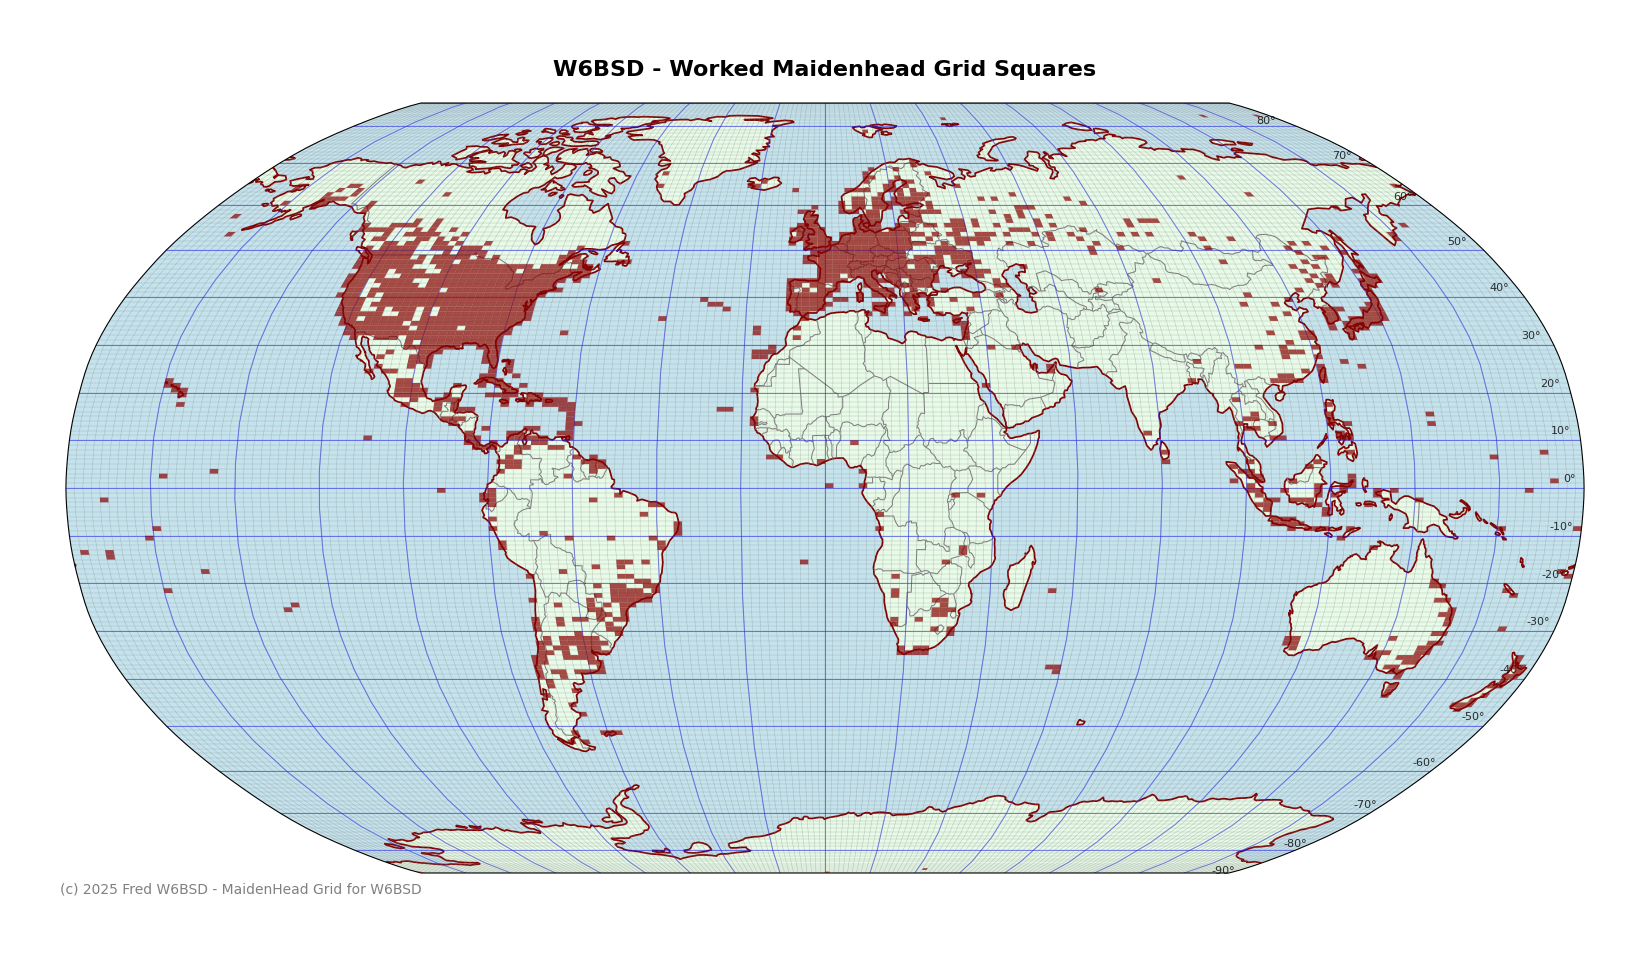
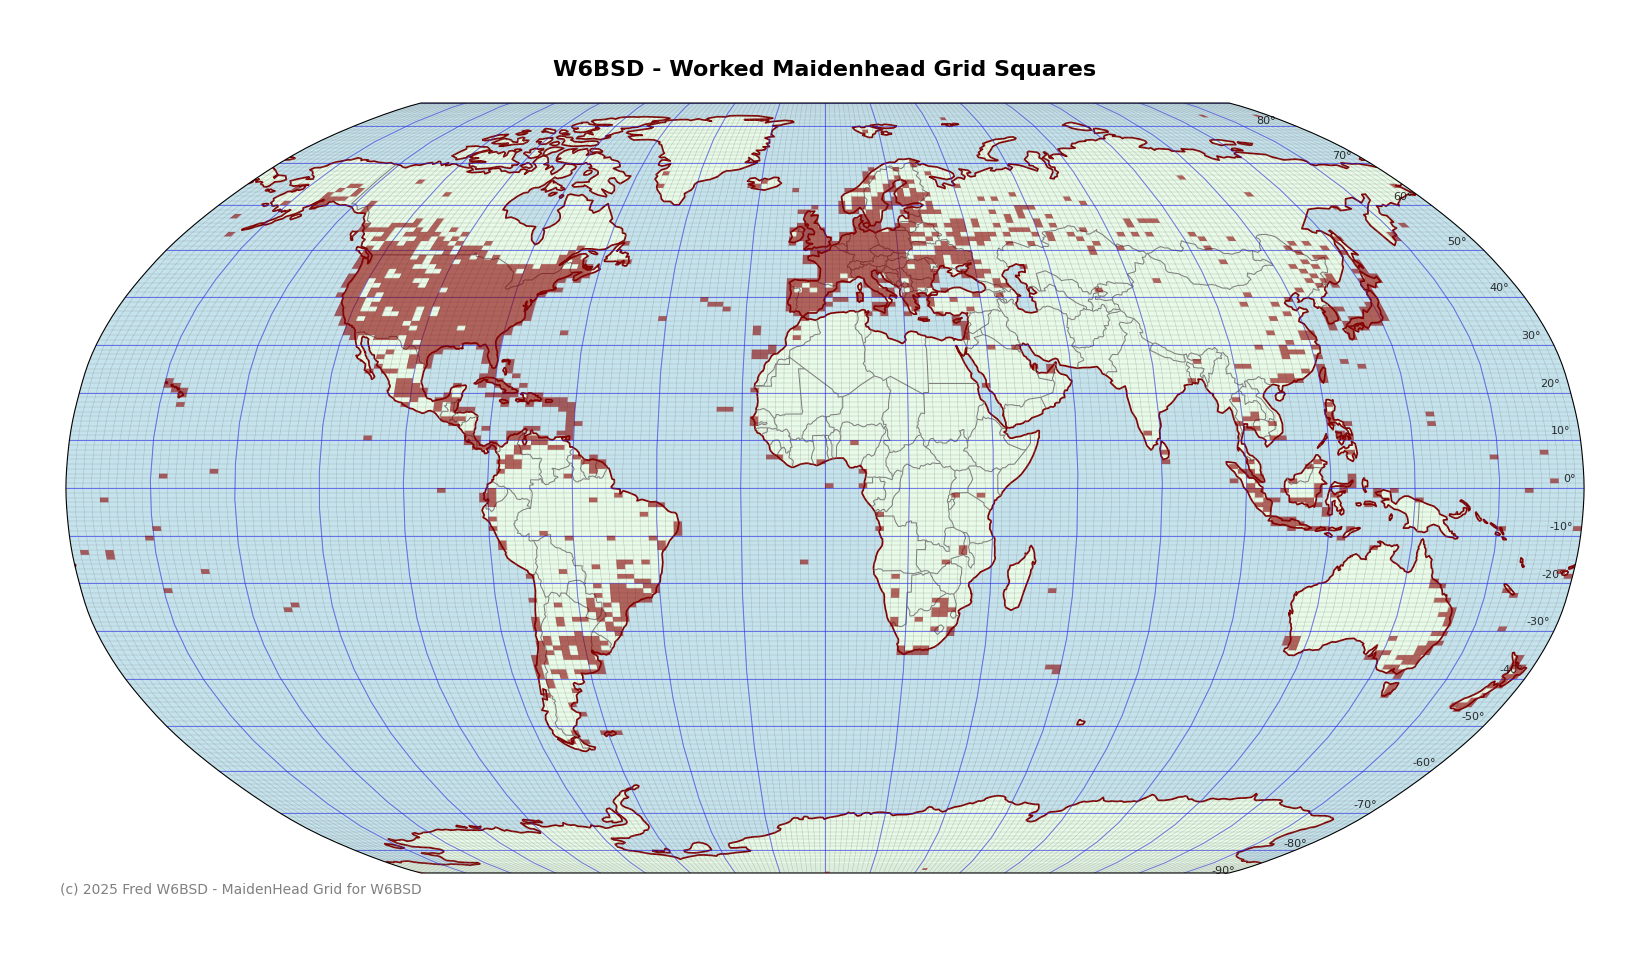
Fix problems when rectables overlap + painting polygon optimization Version++

diff --git a/qsogrid.py b/qsogrid.py
@@ -21,7 +21,11 @@ import cartopy.crs as ccrs
 import cartopy.feature as cfeature
 import matplotlib.pyplot as plt
 from adif_parser import ParseADIF
-from matplotlib.patches import Rectangle
+from shapely.geometry import box
+from shapely.ops import unary_union
+
+Rectangle = Tuple[float, float, float, float]  # (lon_min, lat_min, lon_max, lat_max)
+
 
 # Configure logging
 logging.basicConfig(level=logging.INFO, format='%(levelname)s: %(message)s')
@@ -46,7 +50,7 @@ class MaidenheadConverter:
     return (grid[0:2].isalpha() and grid[2:4].isdigit())
 
   @staticmethod
-  def to_coordinates(grid: str) -> Tuple[float, float, float, float]:
+  def to_coordinates(grid: str) -> Rectangle:
     grid = grid.upper()
 
     # Longitude calculation
@@ -65,13 +69,14 @@ class MaidenheadConverter:
 class GridMapGenerator:
   def __init__(self, figsize: Tuple[int, int] = (20, 10)):
     self.figsize = figsize
-    self.fig = None
+    self.fig: plt.Figure | None = None
     self.ax = None
 
   def create_base_map(self) -> Tuple[plt.Figure, plt.Axes]:
     self.fig = plt.figure(figsize=self.figsize)
     # self.ax = self.fig.add_subplot(111, projection=ccrs.PlateCarree())
     self.ax = self.fig.add_subplot(111, projection=ccrs.Robinson())
+    assert self.ax is not None
 
     self.ax.set_global()
     self.ax.add_feature(cfeature.LAND, facecolor='lightgreen', alpha=0.2)
@@ -87,7 +92,8 @@ class GridMapGenerator:
 
     return self.fig, self.ax
 
-  def _draw_grid_lines(self):
+  def _draw_grid_lines(self) -> None:
+    assert self.ax is not None
     for lon in range(-180, 181, FIELD_LON_STEP):
       self.ax.plot([lon, lon], [-90, 90], color='blue', linewidth=0.75,
                    alpha=0.5, transform=ccrs.PlateCarree())
@@ -115,29 +121,28 @@ class GridMapGenerator:
       self.ax.plot([-180, 180], [lat, lat], color='grey', linewidth=0.3,
                    alpha=0.5, transform=ccrs.PlateCarree())
 
-  def highlight_grids(self, grids: Set[str], color: str = '#880000', alpha: float = 0.7):
+  def highlight_grids(self, grids: Set[str], color: str = '#880000') -> None:
+    assert self.ax is not None
     converter = MaidenheadConverter()
 
+    geoms = []
     for grid in grids:
-      if not converter.validate(grid):
-        logger.warning("Invalid grid square '%s' skipped", grid)
-        continue
+        if not converter.validate(grid):
+            logger.warning("Invalid grid square '%s' skipped", grid)
+            continue
+        lon_min, lon_max, lat_min, lat_max = converter.to_coordinates(grid)
+        geoms.append(box(lon_min, lat_min, lon_max, lat_max))
 
-      lon_min, lon_max, lat_min, lat_max = converter.to_coordinates(grid)
+    if geoms:
+        merged = unary_union(geoms)
+        self.ax.add_geometries(merged, crs=ccrs.PlateCarree(), facecolor=color,
+                               edgecolor=None, alpha=0.6, zorder=20)
 
-      # Create rectangle patch
-      width = lon_max - lon_min
-      height = lat_max - lat_min
-      rect = Rectangle((lon_min, lat_min), width, height,
-                       facecolor=color, alpha=alpha, zorder=10,
-                       transform=ccrs.PlateCarree())
-      self.ax.add_patch(rect)
-
-  def save(self, call: str, title: str, filename: str, dpi: int = 300):
+  def save(self, call: str, title: str, filename: str, dpi: int = 300) -> None:
+    assert self.ax is not None
     year = datetime.now().year
     # Set title
-    self.ax.set_title(f'{call} - {title}',
-                      fontsize=16, weight='bold', pad=20)
+    self.ax.set_title(f'{call} - {title}', fontsize=16, weight='bold', pad=20)
 
     if self.fig is None:
       raise ValueError("No map created. Call create_base_map() first.")

diff --git a/README.md b/README.md
@@ -9,7 +9,7 @@ qsogrid -a ~/tmp/fred.adi -o ./misc/W6BSD-Grid.png -c W6BSD
 ![Example](misc/W6BSD-Grid.png)
 
 ```
-usage: qsogrid.py [-h] -a ADIF_FILE -o OUTPUT -c CALL [-t TITLE] [-d DPI]
+usage: qsogrid [-h] -a ADIF_FILE -o OUTPUT -c CALL [-t TITLE] [-d DPI]
 
 Maidenhead gridsquare map
 
